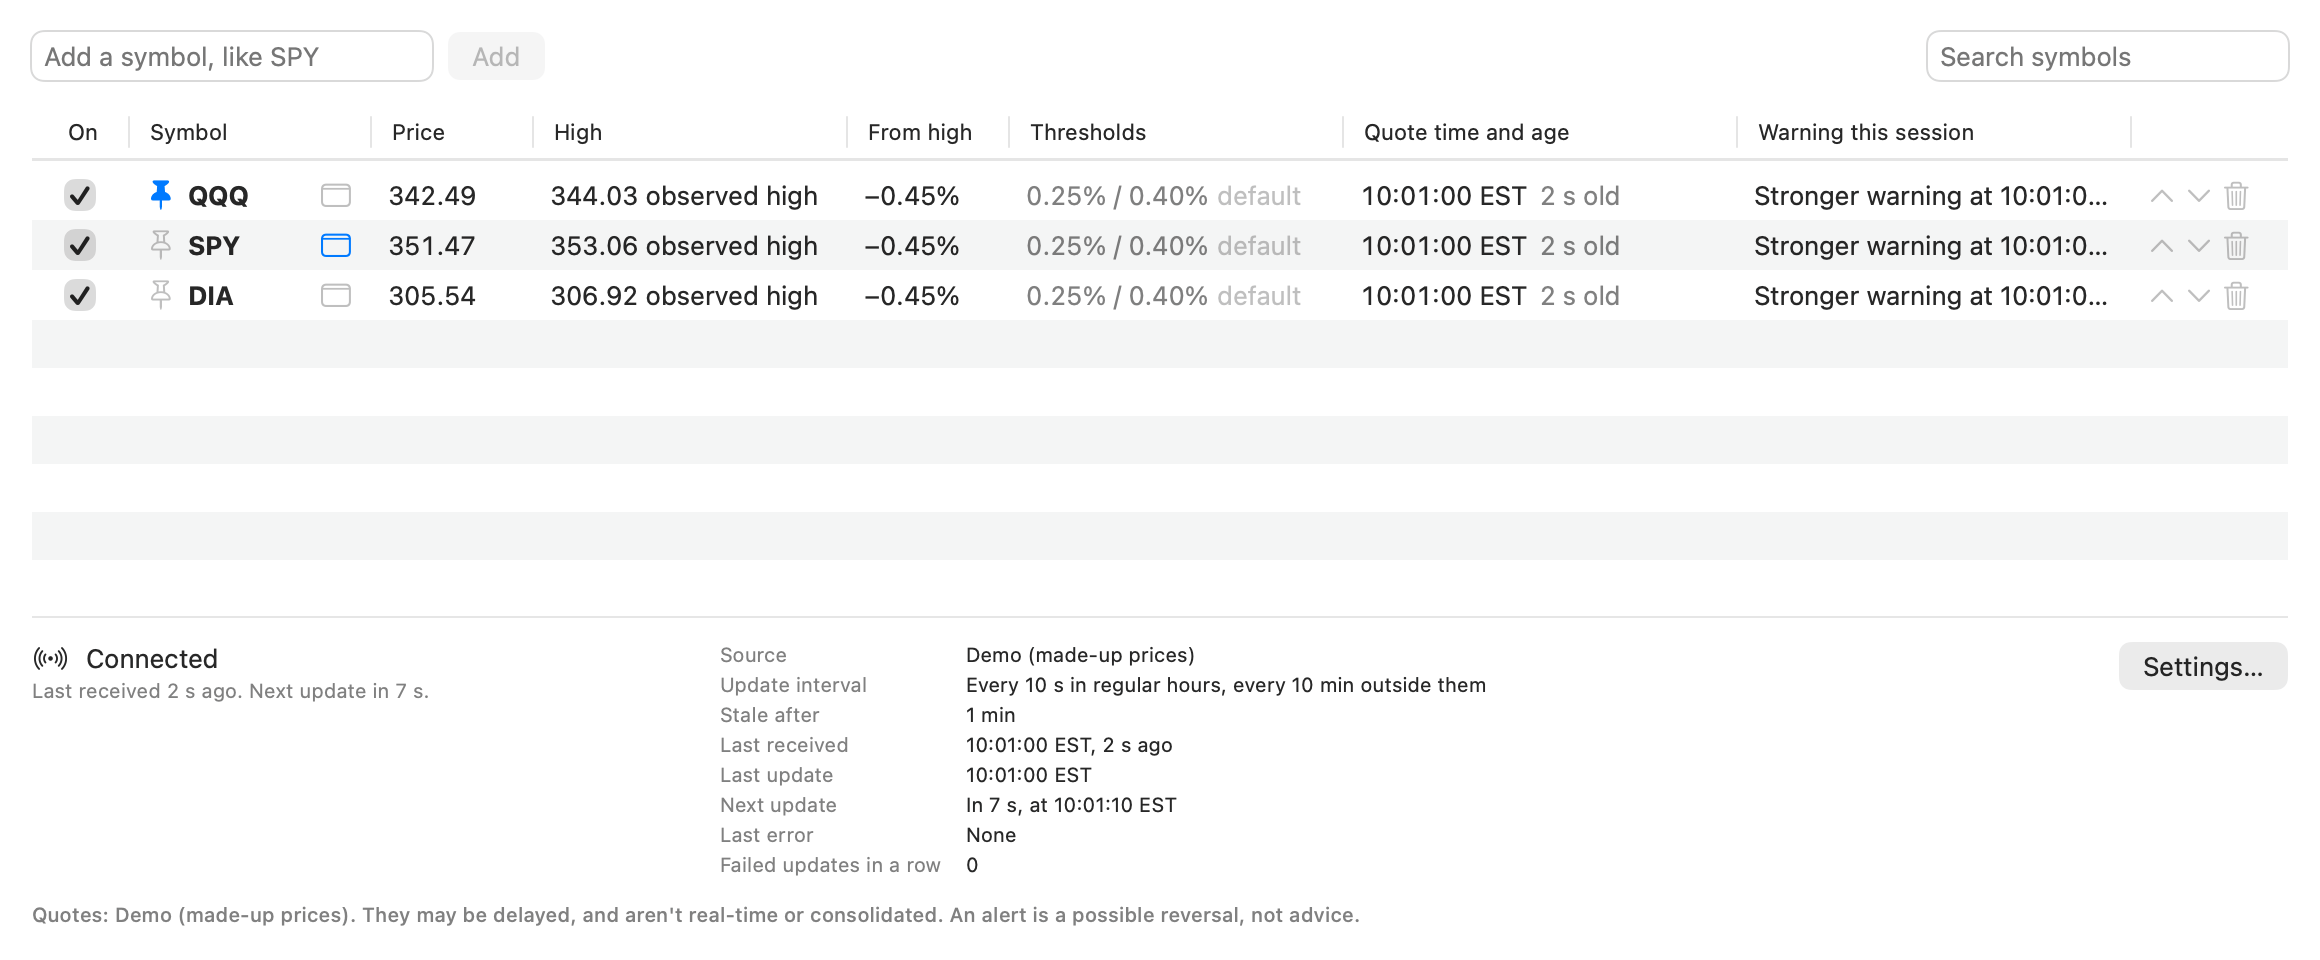
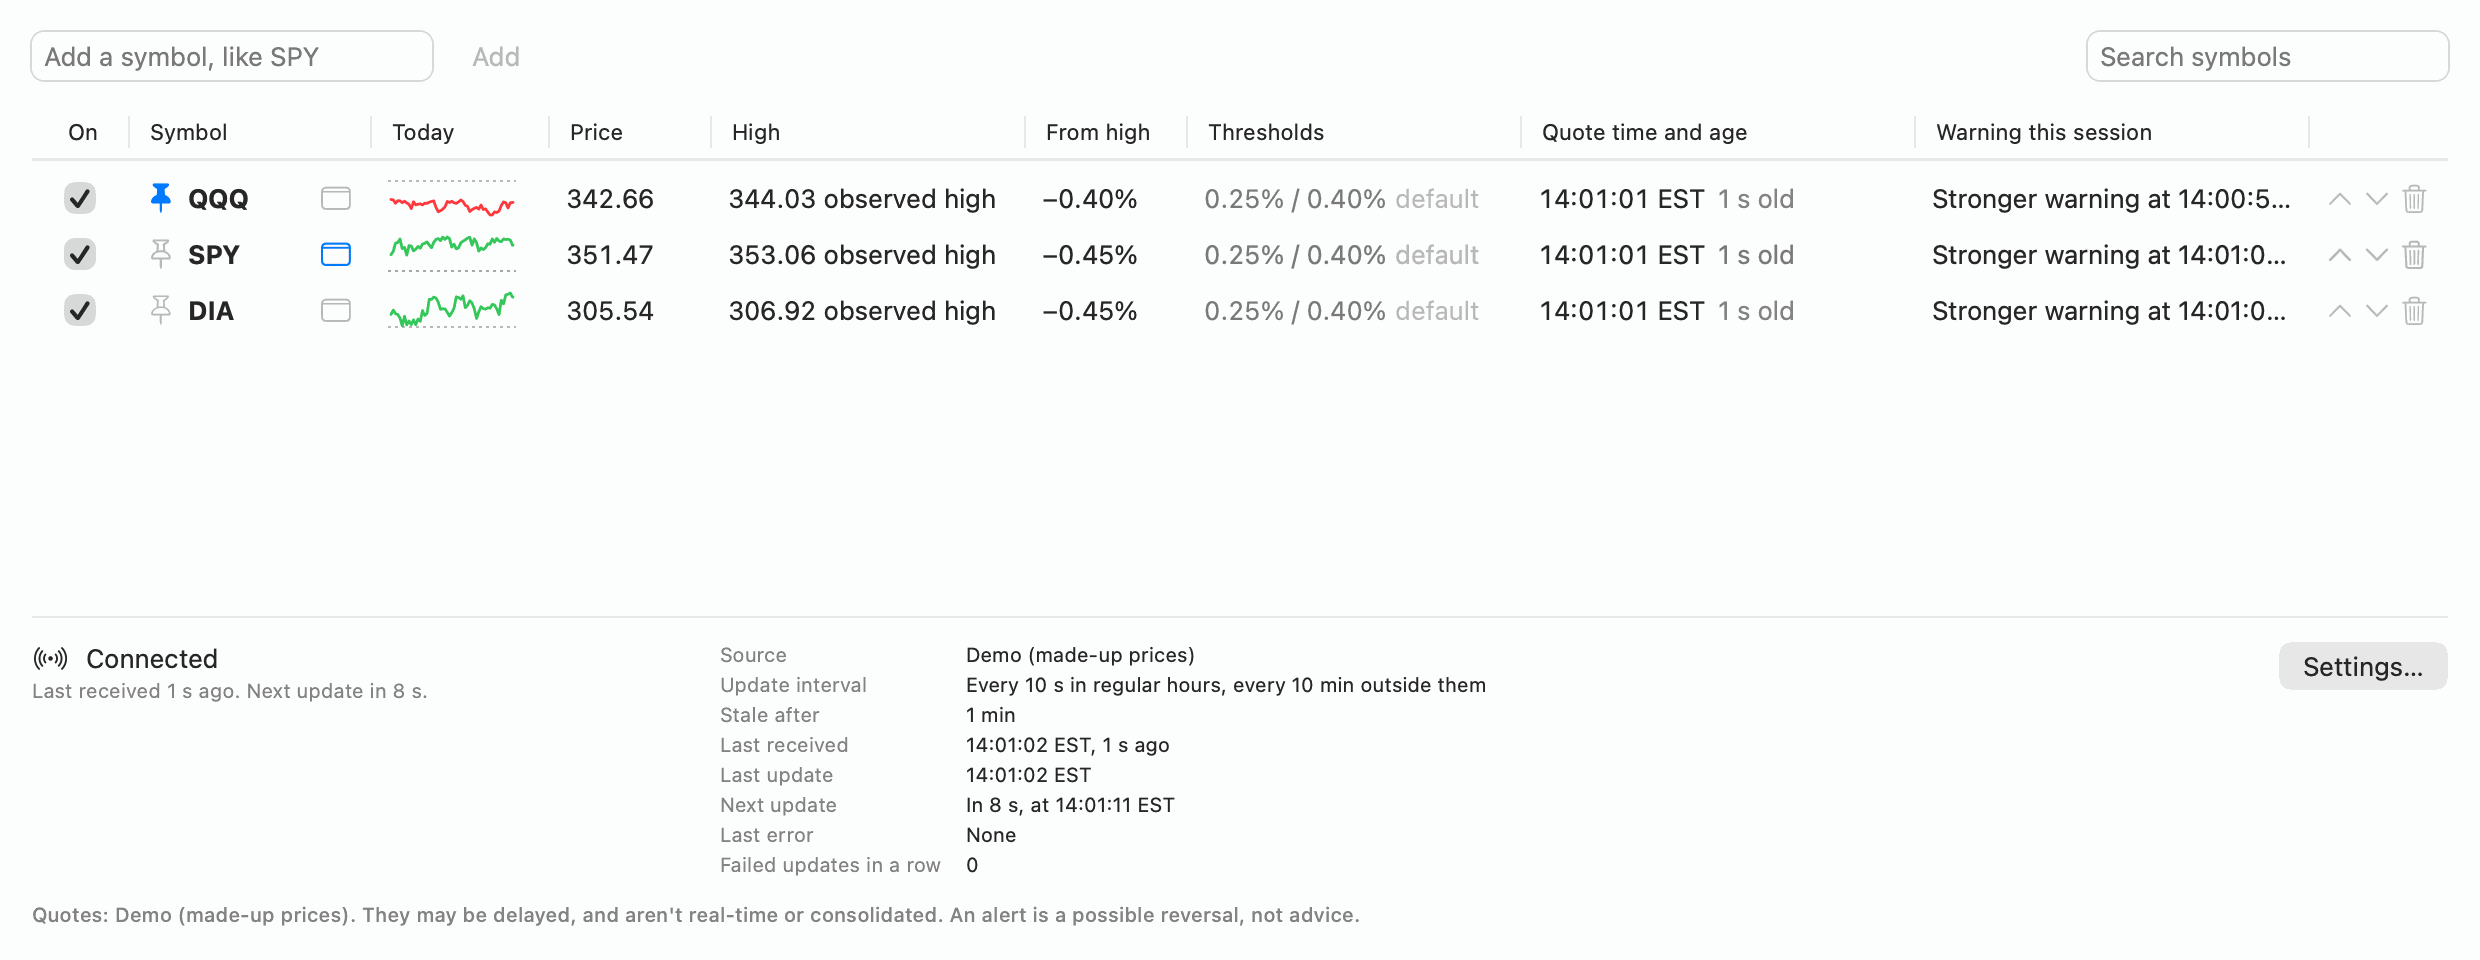
Show the app as it is now in the README, for 0.1.0

diff --git a/README.md b/README.md
@@ -12,9 +12,9 @@
 Vettira is free, open source and local-first. It watches your stock and ETF watchlist from the
 menu bar and notifies you when a price falls from its session high by a threshold you set.
 
-> **Status: in progress.** The logic (quotes, market sessions, session highs, alerts and
-> settings), the menu bar, notifications, the dashboard with watchlist editing, and Settings are
-> built. [Install a release](#install), or [build it](#build-and-run) with Xcode.
+> **Status: 0.1.0, the first release.** It has the menu bar, notifications, the dashboard with
+> watchlist editing, each symbol's chart, and Settings. [Install it](#install), or
+> [build it](#build-and-run) with Xcode.
 
 <p align="center">
   <img src="docs/assets/menu-bar.png" alt="Vettira's menu-bar item as it takes turns through three symbols, one under another: QQQ 342.66 with its last two digits green as it rose; SPY 351.47 and DIA 305.54 with the digits from the first one that changed red as they fell" width="98">
@@ -25,15 +25,19 @@ menu bar and notifies you when a price falls from its session high by a threshol
 </p>
 
 <p align="center">
-  <img src="docs/assets/dashboard.png" alt="Vettira's dashboard window: fields to add and search symbols above the watchlist as a table, each row with a checkbox to monitor it, a pin, its symbol, a button to show it in the menu bar, its price, high, change from the high, thresholds, quote time and age, the warning this session and buttons to move or remove it, then the connection's health and diagnostics and a Settings button" width="860">
+  <img src="docs/assets/dashboard.png" alt="Vettira's dashboard window: fields to add and search symbols above the watchlist as a table, each row with a checkbox to monitor it, a pin, its symbol, a button to show it in the menu bar, its chart of the day, its price, high, change from the high, thresholds, quote time and age, the warning this session and buttons to move or remove it, then the connection's health and diagnostics and a Settings button" width="860">
 </p>
 
 <p align="center">
   <img src="docs/assets/settings.png" alt="Vettira's Settings window: the update interval, the stale-after time, the default thresholds, the data source with its disclaimer and a link to Yahoo's terms, Test Connection, and how often the menu bar takes turns through the symbols, down to the end of its menu-bar section" width="420">
 </p>
 
-<p align="center"><sub>The menu-bar item as it takes turns through three symbols, its popover, the dashboard and
-Settings, from a demo run: the prices are made up (their source reads "Demo (made-up prices)"),
+<p align="center">
+  <img src="docs/assets/chart.png" alt="SPY's chart window on 1D: the price, 351.47, and its change today, up 1.58 (0.45%) in green; the day's line from the open, green as it's above the open, with the previous close dotted and a crosshair at 13:04 ET showing the price, change and volume; the timeframes from 1D to 5Y; then the open, high, low, previous close, volume, observed high, change from the high and thresholds" width="520">
+</p>
+
+<p align="center"><sub>The menu-bar item as it takes turns through three symbols, its popover, the dashboard,
+Settings and a symbol's chart, from a demo run: the prices are made up (their source reads "Demo (made-up prices)"),
 not Yahoo Finance's, and the times are New York's, the exchange's (EST).</sub></p>
 
 ## What it's for, and what it isn't
@@ -104,7 +108,7 @@ came back or what went wrong. The requests, the fields Vettira reads and each er
 
 Each release is on the [Releases page](https://github.com/nikpietanze/vettira/releases) as
 `Vettira-<version>.zip`, with its SHA-256 in `Vettira-<version>.zip.sha256`. It needs **macOS 14
-(Sonoma) or later**. If there's no release yet, [build it](#build-and-run) instead.
+(Sonoma) or later**. To build it yourself instead, see [Build and run](#build-and-run).
 
 1. Download both files, and check the zip in the folder you saved them to:
    `shasum -a 256 -c Vettira-<version>.zip.sha256` should say `OK`.
@@ -189,8 +193,8 @@ instead of your own. With either, alerts go only to the app's log, not to Notifi
 unless you add `--notify`. In Xcode, add the same arguments under Product, Scheme, Edit Scheme…,
 Run, Arguments. `--snapshot <folder>` makes a demo run that, once the warnings have come (or
 after `--snapshot-after <seconds>`), saves pictures of the menu-bar item, the popover, the
-dashboard and Settings, in light and dark, to that folder, offscreen, and quits. A Release build
-ignores them. More: [the demo provider](docs/providers.md#the-demo-provider).
+dashboard, Settings and the menu-bar symbol's chart on 1D, 1Y and 5D, in light and dark, to that
+folder, offscreen, and quits. A Release build ignores them. More: [the demo provider](docs/providers.md#the-demo-provider).
 
 ### Run the tests
 
